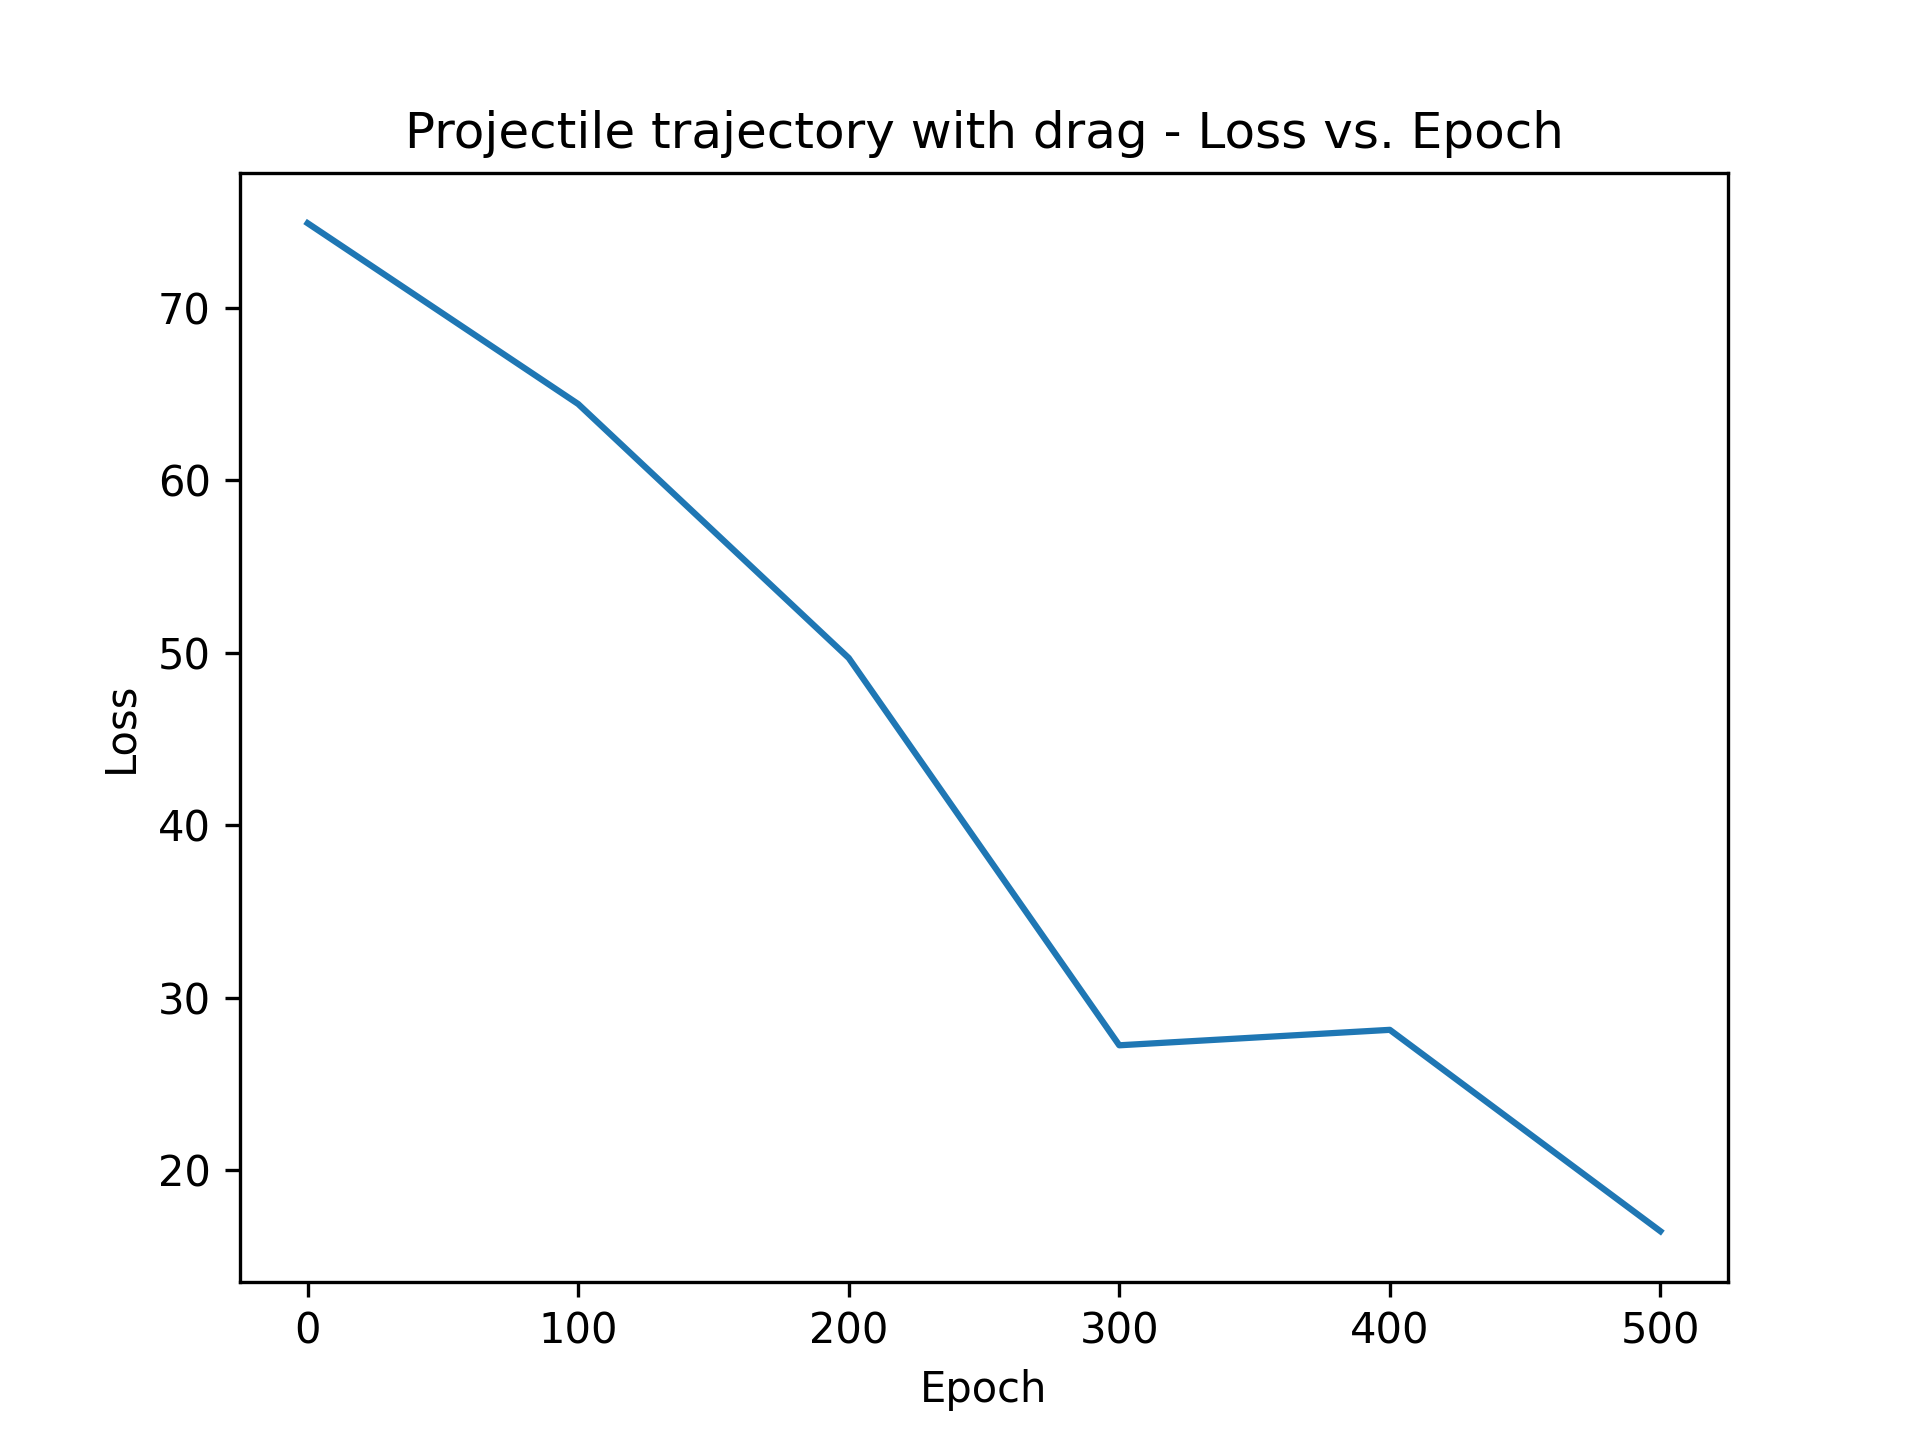
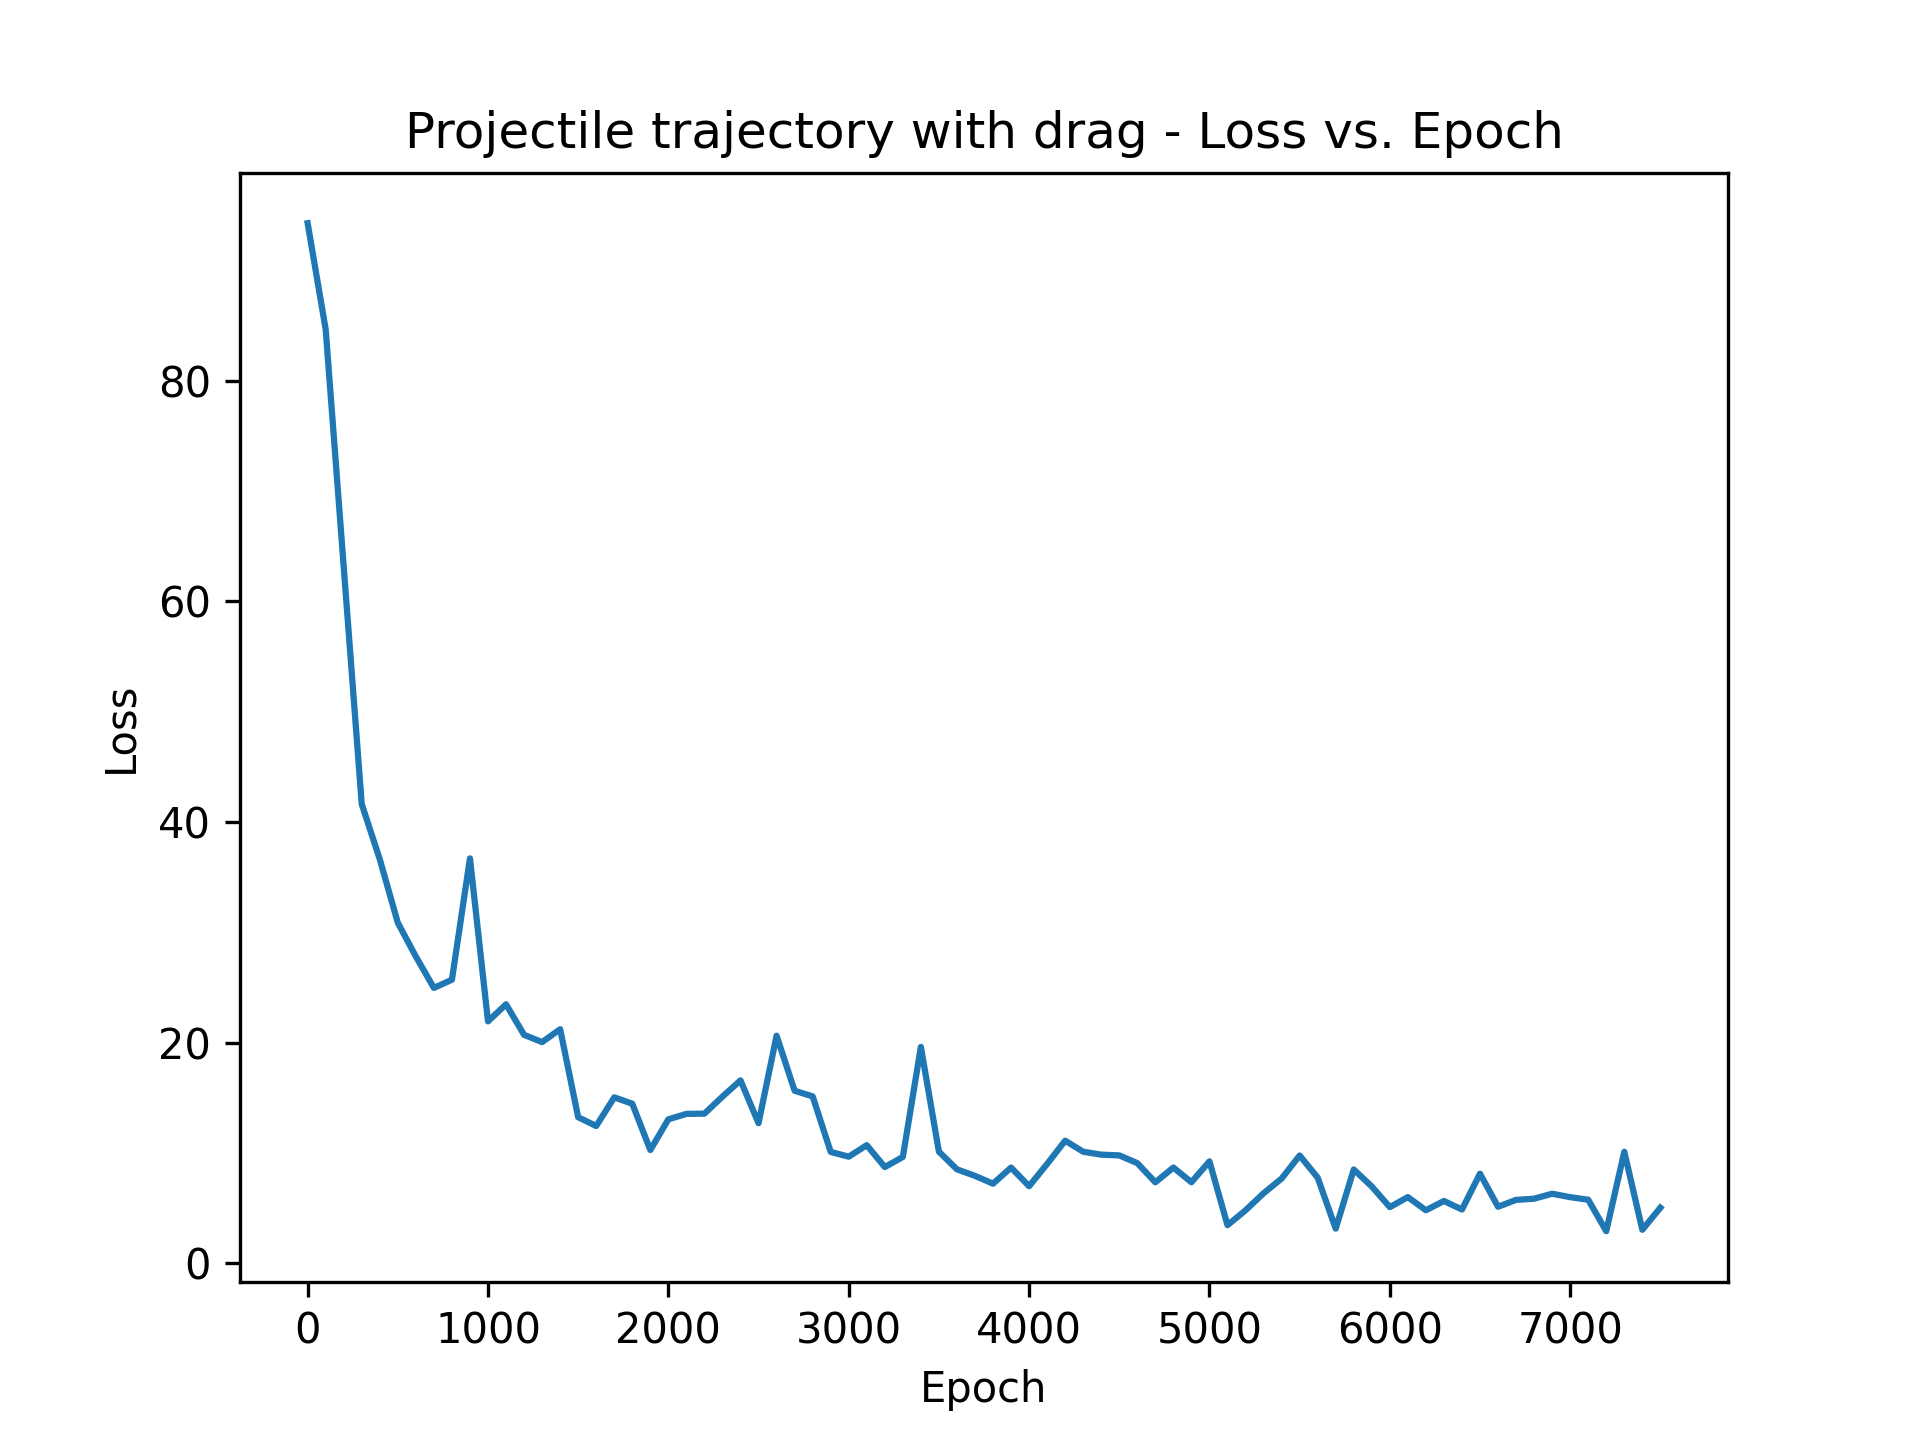
results

diff --git a/pinn_projectile.py b/pinn_projectile.py
@@ -64,9 +64,10 @@ class neural_net(nn.Module):
         return torch.autograd.functional.jacobian(self, x_in, create_graph=True)
 
     def L(self,data,outputs,targets):
-        data_loss = torch.mean((outputs-targets)**2)
-        data_loss = torch.sqrt(data_loss)
-        #data_loss = torch.sqrt(torch.sum((outputs-targets)**2))
+        #data_loss = torch.mean((outputs-targets)**2)
+        #data_loss = torch.sqrt(data_loss)
+        data_loss = torch.sqrt(torch.sum((outputs-targets)**2))
+        #return data_loss
 
         phys_loss = 0.0
         g = 9.8
@@ -74,9 +75,9 @@ class neural_net(nn.Module):
         #https://stackoverflow.com/questions/64988010/getting-the-outputs-grad-with-respect-to-the-input
         #https://discuss.pytorch.org/t/first-and-second-derivates-of-the-output-with-respect-to-the-input-inside-a-loss-function/99757
         #torch.tensor([t_raw],requires_grad = True)
-        #needed_domain = [torch.tensor([x],requires_grad=True) for x in [0.25,2.0,6.0,8.0,10.0]]
-        xl = [x/10.0 for x in range(4,40,1)]
-        needed_domain = [torch.tensor([x],requires_grad=True) for x in xl]
+        needed_domain = [torch.tensor([x],requires_grad=True) for x in [0.25,2.0,2.5,3.0,3.5,4.0,5.0,6.0]]
+        #xl = [x/10.0 for x in range(4,40,1)]
+        #needed_domain = [torch.tensor([x],requires_grad=True) for x in xl]
 
         for x_in in needed_domain:
             x_in = x_in.to(device)
@@ -114,7 +115,7 @@ def find_speed():
     return device
 
 def dump_results(fcount,loss):
-    ts = [x/10. for x in range(0,200,1)]
+    ts = [x/10. for x in range(0,60,1)]
     x_nn = []
     y_nn = []
 
@@ -179,7 +180,7 @@ pairs = [
     [[0.15],[1.505320908,4.024230274,9.81936043,25.49973351]],
     #[[0.5],[4.790417472,11.95657049,8.994238571,19.97982246]],
     [[1.0],[9.068584899,20.24294006,8.176363485,13.35860991]],
-    #[[3.2],[25.11380976,23.69779604,6.604112216,-9.243313604]],
+    [[3.2],[25.11380976,23.69779604,6.604112216,-9.243313604]],
     [[4.7],[34.0088771,0.827816308,5.168032133,-20.42674118,]]
 ]
 

diff --git a/readme.md b/readme.md
@@ -9,10 +9,6 @@ Why PiNNs? Well, suppose in some study you're doing, you have *some* data, eithe
 
 The outcome of training on data + physics, is sufficient (at least here) to find the trajectory of a projecile subject to the drag force.
 
-# References
-
- * [An Expert's Guide to Training PiNNs](https://arxiv.org/pdf/2308.08468)
-
 # The System
 
 ## Data
@@ -254,4 +250,16 @@ A few 1000s of epochs later, we see this appear
 
 ![Figure 9](https://github.com/tbensky/PiNN_Projectile/blob/main/Results/02/frame_011.png?)
 
-which is about the best we've seen.
+which is about the best we've seen given the network structure shown.
+
+
+# Improvements
+
+After reading the paper by [Wang, et.al.](https://arxiv.org/pdf/2308.08468), we modified out network strucuture according to their recommendations: A depth of 3-6 and a width of 128 to 512.  We chose 6 layers, each with 512 neurons, a learning rate of 0.001 and a momentum of 0.1. With this, we are able to produce this
+
+![Figure 10](https://github.com/tbensky/PiNN_Projectile/blob/main/Results/03/frame_50.png?)
+
+which followed this loss evolution
+
+![Figure 11](https://github.com/tbensky/PiNN_Projectile/blob/main/Results/loss.png?)
+
